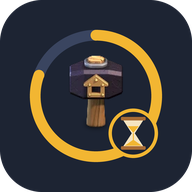
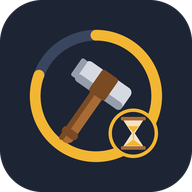
v1.3: icono con martillo de constructor y contorno cuadrado (sustituye a la v1.3 anterior)
Claude-Session: https://claude.ai/code/session_018tAwqsjsSn5XSXzUUFd8CN

Changed region(s): [[0.3125, 0.2812, 0.6875, 0.75], [0.375, 0.4688, 0.4062, 0.5]]

diff --git a/scripts/make-icon.py b/scripts/make-icon.py
@@ -9,7 +9,7 @@ res = root / "android/app/src/main/res"
 BG = (29, 36, 51)            # azul noche
 TRACK = (58, 69, 96)
 GOLD = (242, 182, 50)
-HAMMER = root / "assets-src/hammer_of_building.webp"
+WOOD = (168, 107, 53); WOOD_D = (122, 74, 34); STEEL = (213, 218, 226); STEEL_D = (150, 158, 172)
 
 def round_cap(d, c, r, w, ang):
     a = math.radians(ang); x = c + (r - w / 2) * math.cos(a); y = c + (r - w / 2) * math.sin(a)
@@ -31,6 +31,20 @@ def hourglass(size):
     d.rounded_rectangle([cx - hw - s * 0.05, bot, cx + hw + s * 0.05, bot + bar], radius=bar / 3, fill=wood)
     return im
 
+def builder_hammer(T):
+    """Martillo de constructor dibujado: mango de madera y cabeza de acero, inclinado."""
+    L = Image.new("RGBA", (T, T), (0, 0, 0, 0)); d = ImageDraw.Draw(L); c = T / 2
+    hw = T * 0.042; hl = T * 0.40                                     # mango
+    d.rounded_rectangle([c - hw, c - T * 0.06, c + hw, c - T * 0.06 + hl], radius=hw, fill=WOOD)
+    d.rounded_rectangle([c - hw, c - T * 0.06, c - hw * 0.25, c - T * 0.06 + hl], radius=hw * 0.6, fill=WOOD_D)
+    d.rounded_rectangle([c - hw * 1.25, c + T * 0.25, c + hw * 1.25, c + T * 0.30], radius=hw * 0.5, fill=WOOD_D)   # agarre
+    w2 = T * 0.17; h2 = T * 0.075; top = c - T * 0.155                 # cabeza
+    d.rounded_rectangle([c - w2, top, c + w2, top + h2 * 2], radius=h2 * 0.45, fill=STEEL)
+    d.rounded_rectangle([c - w2, top + h2 * 1.35, c + w2, top + h2 * 2], radius=h2 * 0.45, fill=STEEL_D)
+    d.rounded_rectangle([c - w2 - T * 0.03, top + h2 * 0.15, c - w2 + T * 0.01, top + h2 * 1.85], radius=T * 0.012, fill=STEEL_D)  # boca
+    d.rounded_rectangle([c - hw * 1.4, top - T * 0.005, c + hw * 1.4, top + h2 * 2 + T * 0.005], radius=hw * 0.4, fill=WOOD_D)    # cuña
+    return L.rotate(-35, resample=Image.BICUBIC, center=(c, c))
+
 def emblem(T):
     """El dibujo sin fondo, centrado en un lienzo T×T (cabe en la zona segura de Android)."""
     im = Image.new("RGBA", (T, T), (0, 0, 0, 0)); d = ImageDraw.Draw(im)
@@ -38,8 +52,7 @@ def emblem(T):
     d.ellipse([c - r, c - r, c + r, c + r], outline=TRACK, width=int(w))
     d.arc([c - r, c - r, c + r, c + r], start=-90, end=200, fill=GOLD, width=int(w))
     round_cap(d, c, r, w, -90); round_cap(d, c, r, w, 200)
-    g = Image.open(HAMMER).convert("RGBA"); h = int(T * 0.50); g = g.resize((int(g.width * h / g.height), h), Image.LANCZOS)
-    im.alpha_composite(g, (int(c - g.width / 2), int(c - g.height / 2 - T * 0.01)))
+    im.alpha_composite(builder_hammer(T), (0, 0))
     b = hourglass(int(T * 0.30)); a = math.radians(45); bx = c + r * 0.80 * math.cos(a); by = c + r * 0.80 * math.sin(a)
     im.alpha_composite(b, (int(bx - b.width / 2), int(by - b.height / 2)))
     return im
@@ -61,8 +74,7 @@ for name, k in dens.items():
     sq = Image.new("RGBA", (big.width,) * 2, (0, 0, 0, 0)); ImageDraw.Draw(sq).rounded_rectangle([0, 0, sq.width - 1, sq.width - 1], radius=sq.width * 0.22, fill=BG)
     inner = big.resize((int(big.width * 0.86),) * 2, Image.LANCZOS); sq.alpha_composite(inner, ((sq.width - inner.width) // 2,) * 2)
     save(sq, res / f"mipmap-{name}/ic_launcher.png", n)
-    rd = Image.new("RGBA", (big.width,) * 2, (0, 0, 0, 0)); ImageDraw.Draw(rd).ellipse([0, 0, rd.width - 1, rd.width - 1], fill=BG)
-    inner = big.resize((int(big.width * 0.80),) * 2, Image.LANCZOS); rd.alpha_composite(inner, ((rd.width - inner.width) // 2,) * 2)
+    rd = sq   # contorno cuadrado también donde el móvil pide el icono "redondo"
     save(rd, res / f"mipmap-{name}/ic_launcher_round.png", n)
 
 (res / "values/ic_launcher_background.xml").write_text('<?xml version="1.0" encoding="utf-8"?>\n<resources>\n    <color name="ic_launcher_background">#1D2433</color>\n</resources>\n')

diff --git a/CHANGELOG.md b/CHANGELOG.md
@@ -3,7 +3,7 @@
 <!-- La versión más nueva arriba. Cambios pequeños: 1.2, 1.3…  Cambios gordos: 2.0 -->
 
 ## v1.3 — 24/11/2026
-- Icono nuevo: anillo de progreso con el martillo de construcción y un reloj de arena (adiós al ayuntamiento 15).
+- Icono nuevo: anillo de progreso con un martillo de constructor y un reloj de arena, con contorno cuadrado (adiós al ayuntamiento 15).
 - Pantalla de inicio con el nuevo icono.
 
 ## v1.2 — 24/11/2026
